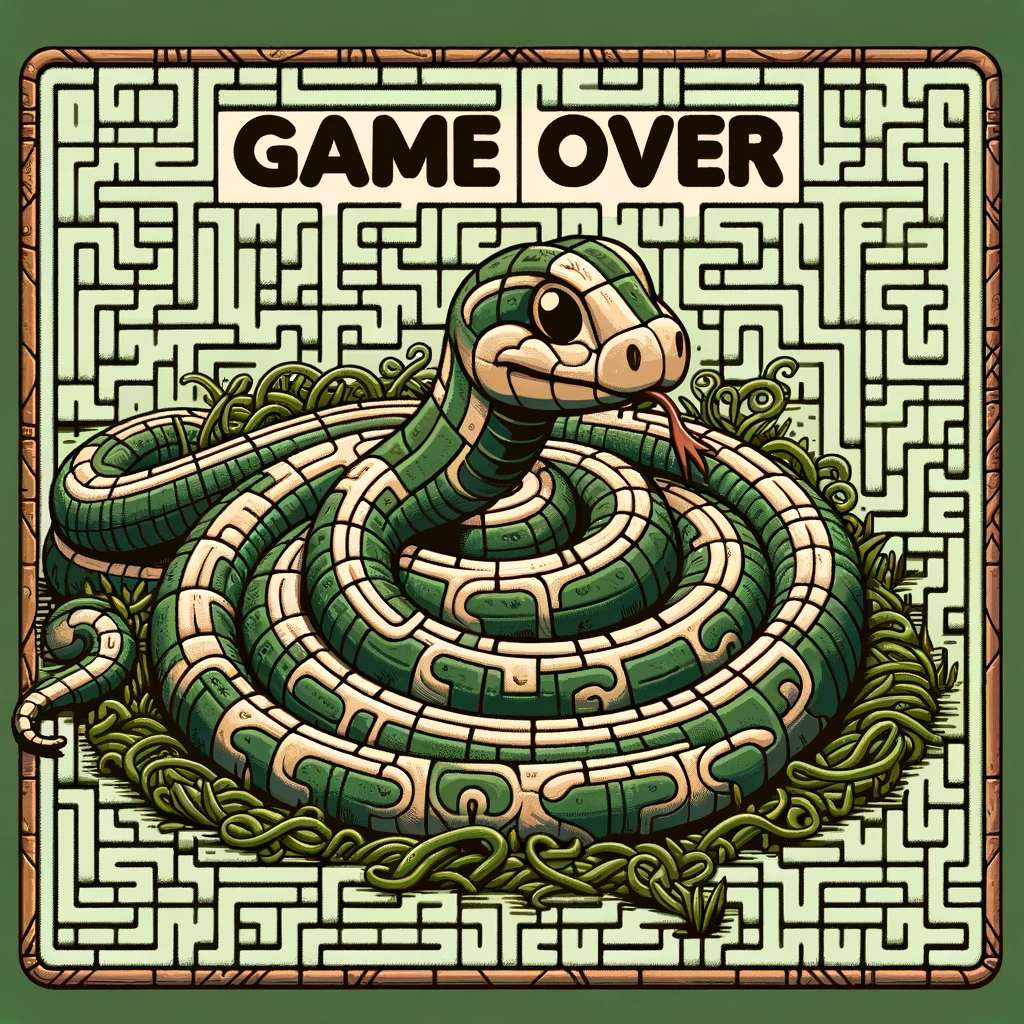
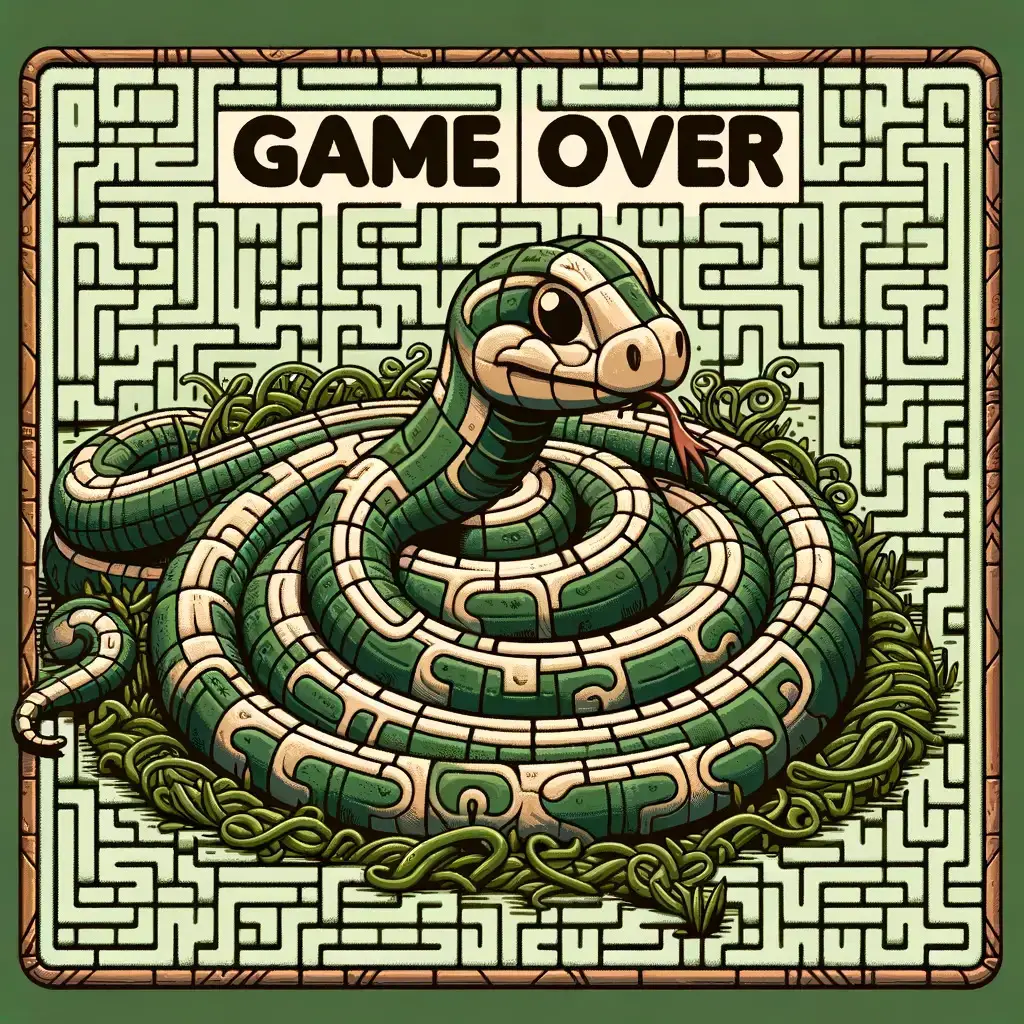
feat: added Game over win bg

diff --git a/core/src/com/mygdx/game/scenes/GameOverWin.java b/core/src/com/mygdx/game/scenes/GameOverWin.java
@@ -1,11 +1,16 @@
 package com.mygdx.game.scenes;
 
+import com.badlogic.gdx.Gdx;
+import com.badlogic.gdx.graphics.Texture;
+import com.mygdx.engine.Utils;
 import com.mygdx.engine.scene.Scene;
 import com.mygdx.engine.scene.SceneManager;
+import com.mygdx.game.GameConfig.Assets;
 
 public class GameOverWin extends Scene {
     // this class will load all the required entityies using entity manager
     SceneManager sceneManager;
+    private Texture background;
 
     public GameOverWin(SceneManager sceneManager) {
         super();
@@ -14,6 +19,8 @@ public class GameOverWin extends Scene {
 
     @Override
     public void show() {
+        System.out.println("YOU WIN!");
+        background = new Texture(Utils.getInternalFilePath(Assets.GAME_OVER_WIN.getFileName()));
         // throw new UnsupportedOperationException("Unimplemented method 'show'");
     }
 
@@ -21,5 +28,13 @@ public class GameOverWin extends Scene {
     public void hide() {
         // throw new UnsupportedOperationException("Unimplemented method 'hide'");
     }
+    @Override
+    public void render(float delta) {
+        batch.draw(background, 0, 0, Gdx.graphics.getWidth(), Gdx.graphics.getHeight());
+    }
 
+    @Override
+    public void dispose() {
+        background.dispose();
+    }
 }

diff --git a/core/src/com/mygdx/game/GameConfig.java b/core/src/com/mygdx/game/GameConfig.java
@@ -50,7 +50,8 @@ public class GameConfig {
         MAIN_MENU_BG("mainMenuBg.jpg"),
         PLAY_BTN("playBtn.png"),
         RESTART_BTN("restartBtn.png"),
-        SETTINGS_BTN("settingsBtn.png");
+        SETTINGS_BTN("settingsBtn.png"), 
+        GAME_OVER_WIN("Game_over.png");
 
         private String fileName;
 
